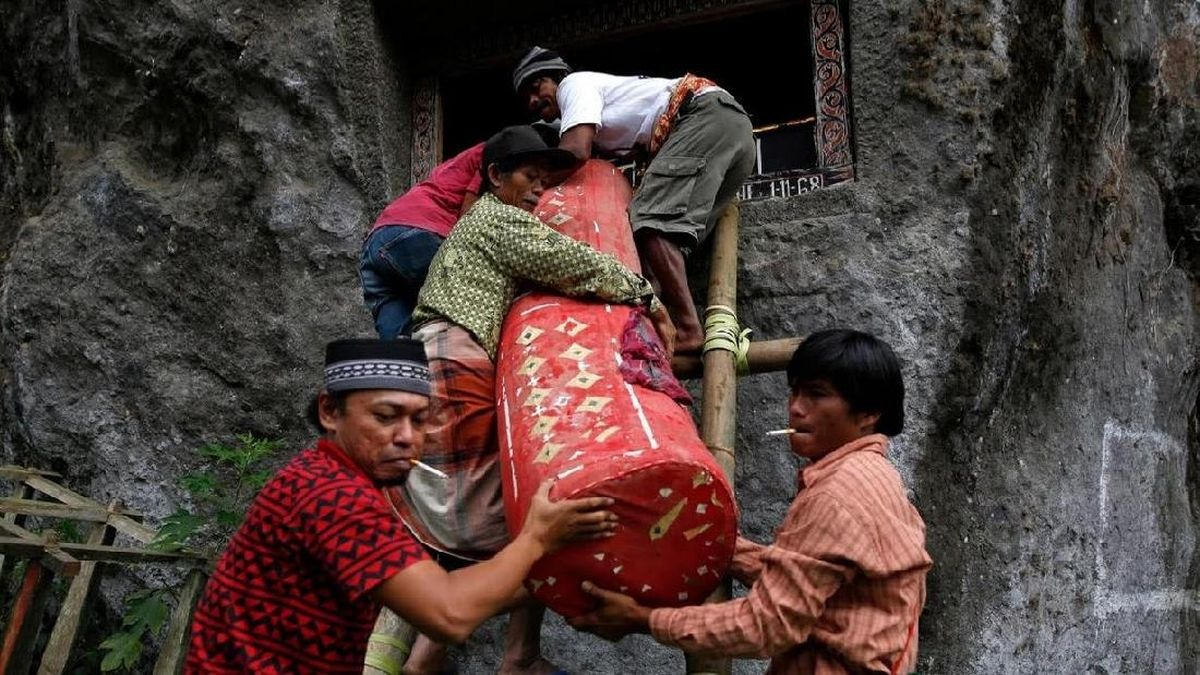
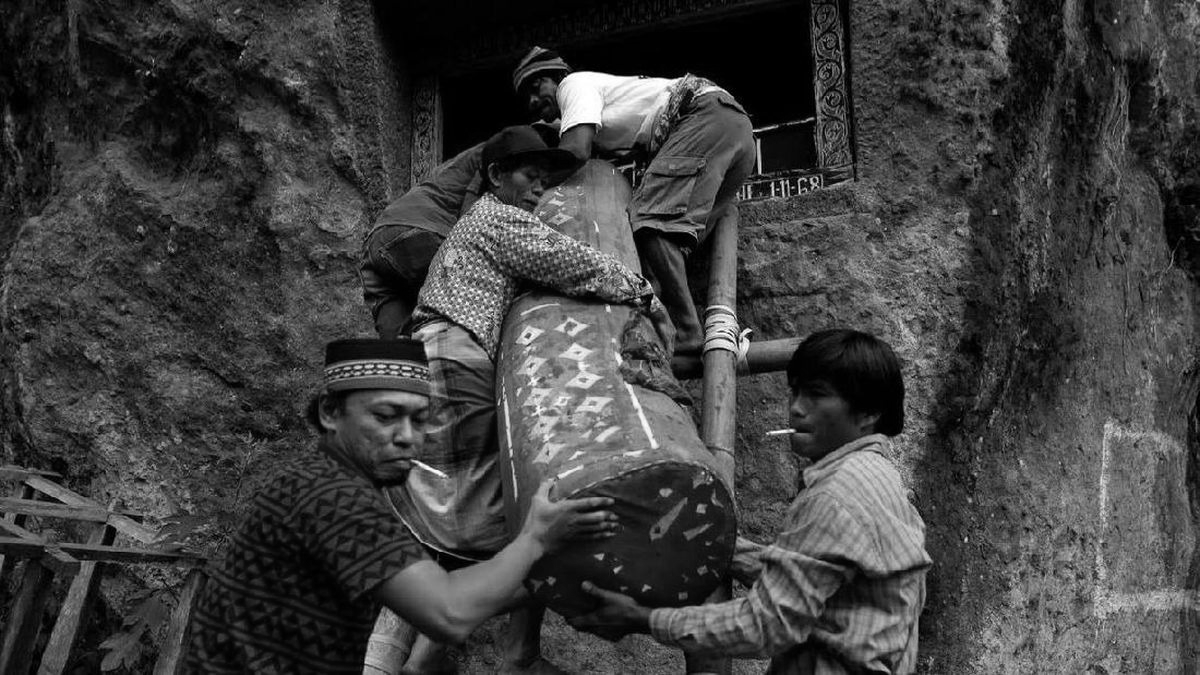
feat

diff --git a/lib/detailPage/sosialBudaya.dart b/lib/detailPage/sosialBudaya.dart
@@ -45,32 +45,44 @@ class SosBud extends StatelessWidget {
               ],
             ),
             SizedBox(height: 30),
-            Row(
-              mainAxisAlignment: MainAxisAlignment.spaceBetween,
-                children: [
-                  Flexible(
-                    flex: 2,
+            Container(
+              color: Colors.black,
+              child: Padding(
+                padding: const EdgeInsets.all(10.0),
+                child: Row(
+                  mainAxisAlignment: MainAxisAlignment.spaceBetween,
+                  children: [
+                    Flexible(
+                      flex: 3,
                       child: Column(
                         children: [
                           Text("Cultural of Sulawesi Selatan",
-                          style: TextStyle(
-                            fontSize: 30,
-                            fontWeight: FontWeight.bold
-                          ),),
+                            style: TextStyle(
+                              fontSize: 30,
+                              fontWeight: FontWeight.bold,
+                              color: Colors.white,
+                            ),),
                           SizedBox(height: 20),
-                          Text("Lorem ipsum dolor sit amet, consectetur adipiscing elit, sed do eiusmod tempor incididunt ut labore et dolore magna aliqua. Ut enim ad minim veniam, quis nostrud exercitation ullamco laboris nisi ut aliquip ex ea commodo consequat. Duis aute irure dolor in reprehenderit in voluptate velit esse cillum dolore eu fugiat nulla pariatur. Excepteur sint occaecat cupidatat non proident, sunt in culpa qui officia deserunt mollit anim id est laborum.")
+                          Text("Lorem ipsum dolor sit amet, consectetur adipiscing elit, sed do eiusmod tempor incididunt ut labore et dolore magna aliqua. Ut enim ad minim veniam, quis nostrud exercitation ullamco laboris nisi ut aliquip ex ea commodo consequat. Duis aute irure dolor in reprehenderit in voluptate velit esse cillum dolore eu fugiat nulla pariatur. Excepteur sint occaecat cupidatat non proident, sunt in culpa qui officia deserunt mollit anim id est laborum.",
+                            style: TextStyle(
+                              fontSize: 16,
+                              color: Colors.white,
+                            ),
+                          ),
                         ],
                       ),
-                  ),
-                  Flexible(
-                    flex: 1,
-                    child: Image.asset(
-                      'lib/assets/image/sosbud/view.jpg',
-                      width: 1050.0,
-                      height: 550.0,
                     ),
-                  ),
-                ],
+                    Flexible(
+                      flex: 2,
+                      child: Image.asset(
+                        'lib/assets/image/sosbud/view.jpg',
+                        width: 1550.0,
+                        height: 550.0,
+                      ),
+                    ),
+                  ],
+                ),
+              ),
             ),
             SizedBox(height: 60),
             Row(
@@ -124,7 +136,7 @@ class SosBud extends StatelessWidget {
                   Column(
                     children: [
                       Image.asset(
-                        "lib/assets/image/sosbud/nilaibudaya.jpg",
+                        "lib/assets/image/sosbud/adat.jpg",
                         width: 300,
                         height: 200,
                       ),
@@ -155,15 +167,15 @@ class SosBud extends StatelessWidget {
                   Row(
                     mainAxisAlignment: MainAxisAlignment.center,
                     children: [
-                      Image.asset("lib/assets/image/sosbud/apa.jpg",
+                      Image.asset("lib/assets/image/sosbud/apa_bw.jpg",
                       width: 300,
                       height: 600,),
                       SizedBox(width: 10,),
-                      Image.asset("lib/assets/image/sosbud/ma'nene.jpg",
+                      Image.asset("lib/assets/image/sosbud/ma'nene_bw.jpg",
                         width: 300,
                         height: 600,),
                       SizedBox(width: 10,),
-                      Image.asset("lib/assets/image/sosbud/hongkonan.jpg",
+                      Image.asset("lib/assets/image/sosbud/hongkonan_bw.jpg",
                         width: 300,
                         height: 600,),
                     ],
